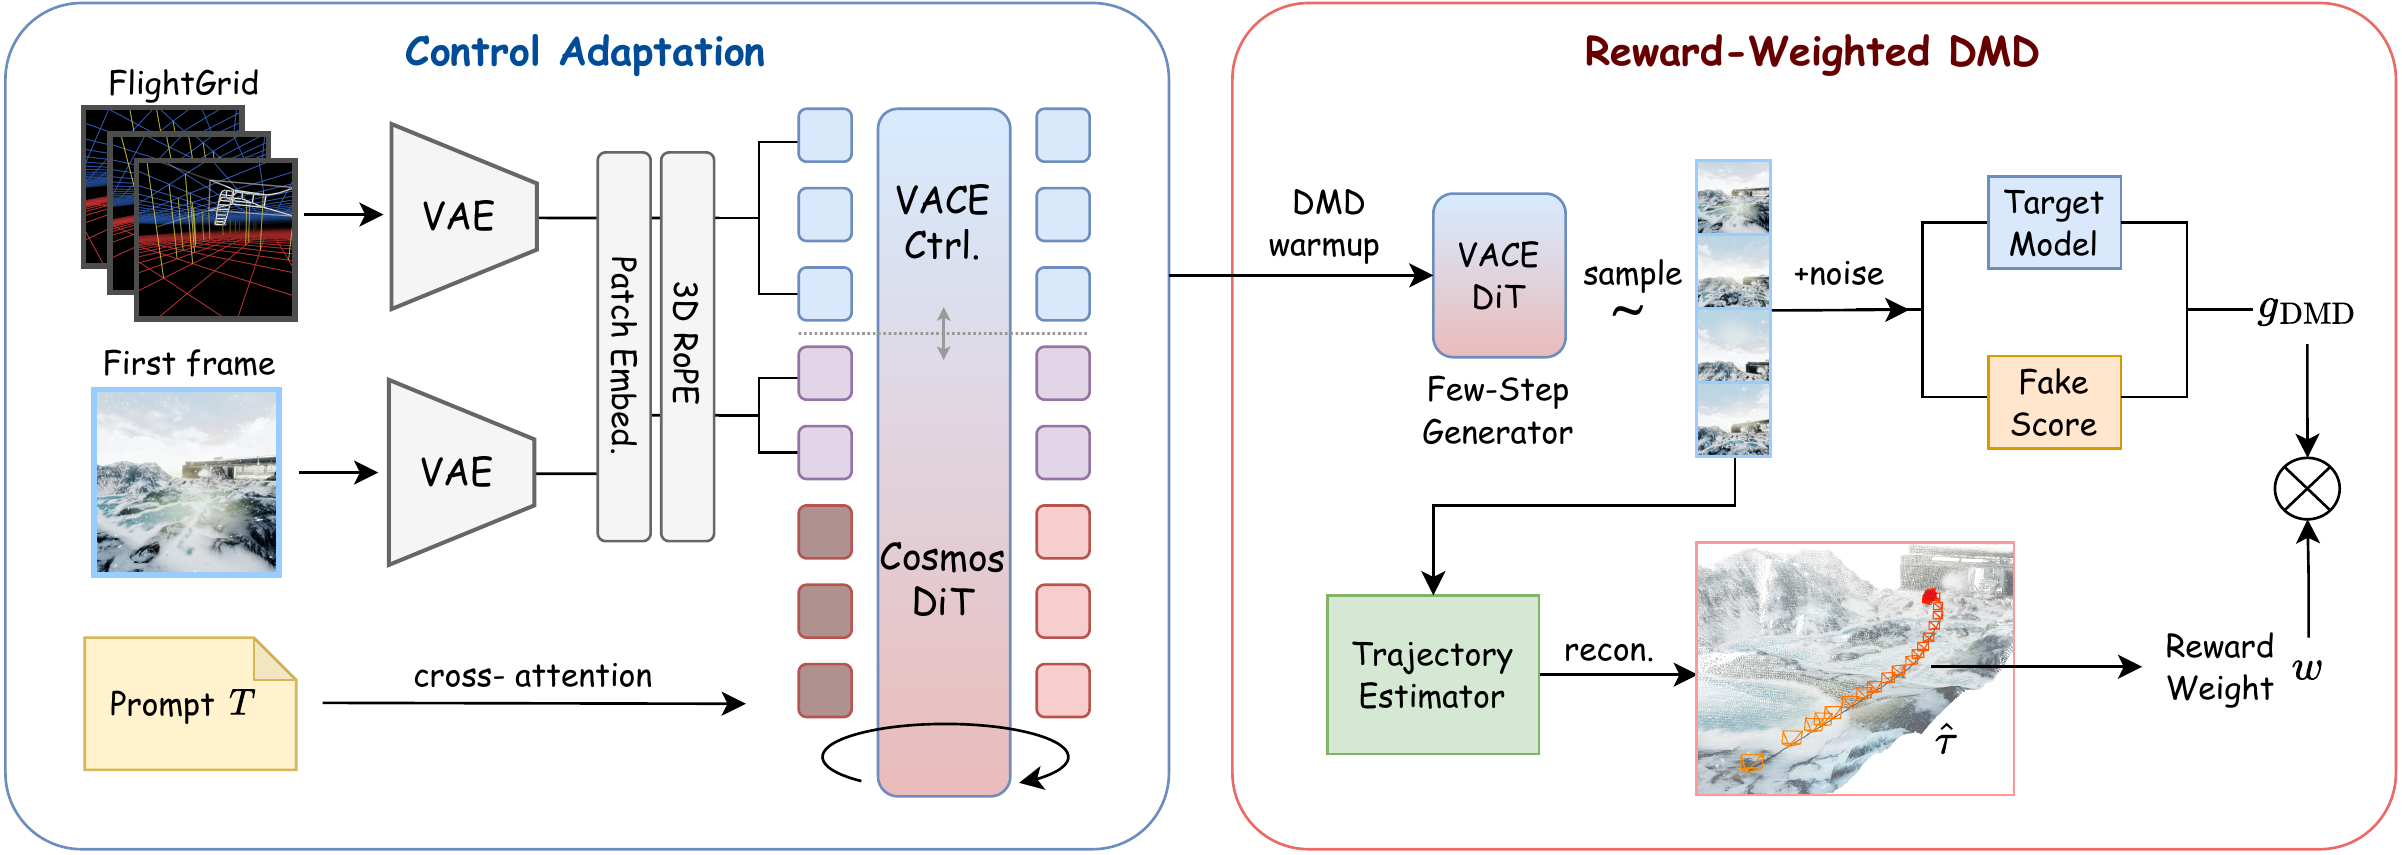
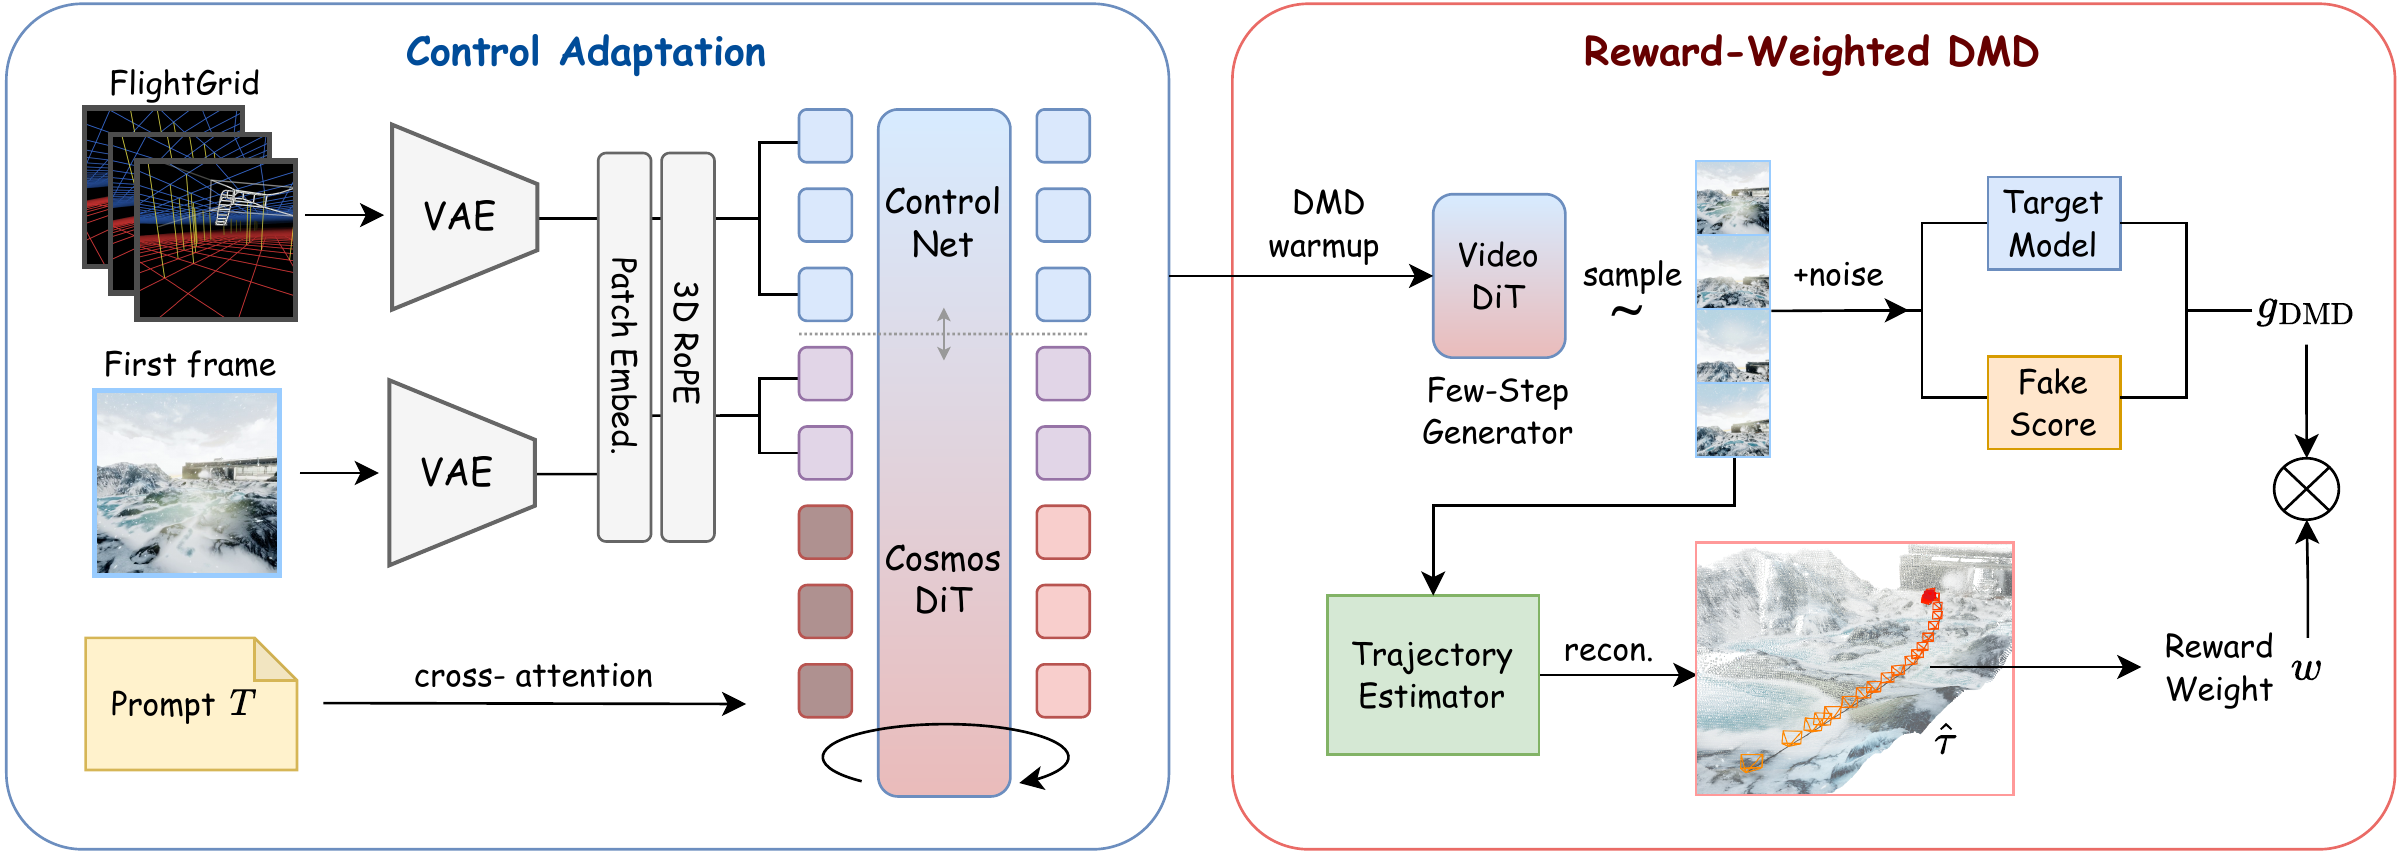
Replace the training overview with the ControlNet version
The figure now labels the control branch ControlNet and the generator
Video DiT; the section text and the figure caption follow, so the page no
longer names the branch after a specific prior architecture.

Claude-Session: https://claude.ai/code/session_01PnkQNmougvB1N1NMZh3X4t

diff --git a/assets/standalone/WorldSlider/index.html b/assets/standalone/WorldSlider/index.html
@@ -339,7 +339,7 @@
 
       <p class="ws-lead" style="margin-top: 3rem">
         Training proceeds in two stages. <strong>Control adaptation</strong> injects FlightGrid, the
-        first frame and the text condition into a pre-trained video DiT through a VACE-style control
+        first frame and the text condition into a pre-trained video DiT through a ControlNet-style control
         branch; the backbone, the VAE and the text encoder remain frozen, so optimization is restricted
         to the control branch under the conditional rectified-flow objective. The resulting multi-step
         teacher is then distilled into a few-step student by score-based distribution matching.
@@ -352,10 +352,10 @@
 
       <figure class="ws-figure is-narrow">
         <img src="static/images/training_overview.png" width="2402" height="855"
-          alt="Training overview in two panels. Left, control adaptation: FlightGrid and a first frame pass through a frozen VAE into patch embedding and 3D RoPE, entering a frozen Cosmos DiT through a trainable VACE control branch, with the text prompt entering by cross-attention. Right, reward-weighted DMD: a few-step generator produces a sample that is noised and denoised by a frozen target model and a fake-score model to form the DMD gradient, while a trajectory estimator recovers the sample's trajectory and converts its agreement with the prescribed flight into a reward weight applied to that gradient." />
+          alt="Training overview in two panels. Left, control adaptation: FlightGrid and a first frame pass through a frozen VAE into patch embedding and 3D RoPE, entering a frozen Cosmos DiT through a trainable ControlNet branch, with the text prompt entering by cross-attention. Right, reward-weighted DMD: a few-step generator produces a sample that is noised and denoised by a frozen target model and a fake-score model to form the DMD gradient, while a trajectory estimator recovers the sample's trajectory and converts its agreement with the prescribed flight into a reward weight applied to that gradient." />
         <figcaption class="ws-caption" style="margin-top: .75rem">
           <strong>Training overview.</strong> Left: FlightGrid, the first frame and the prompt enter a
-          frozen Cosmos DiT through a trainable VACE control branch. Right: the few-step
+          frozen Cosmos DiT through a trainable ControlNet branch. Right: the few-step
           generator&rsquo;s samples give the DMD gradient against the frozen target and fake-score
           models, while a trajectory estimator recovers the flight from that same sample and turns its
           agreement with the prescribed one into the weight&nbsp;<em>w</em>. Red and gray
